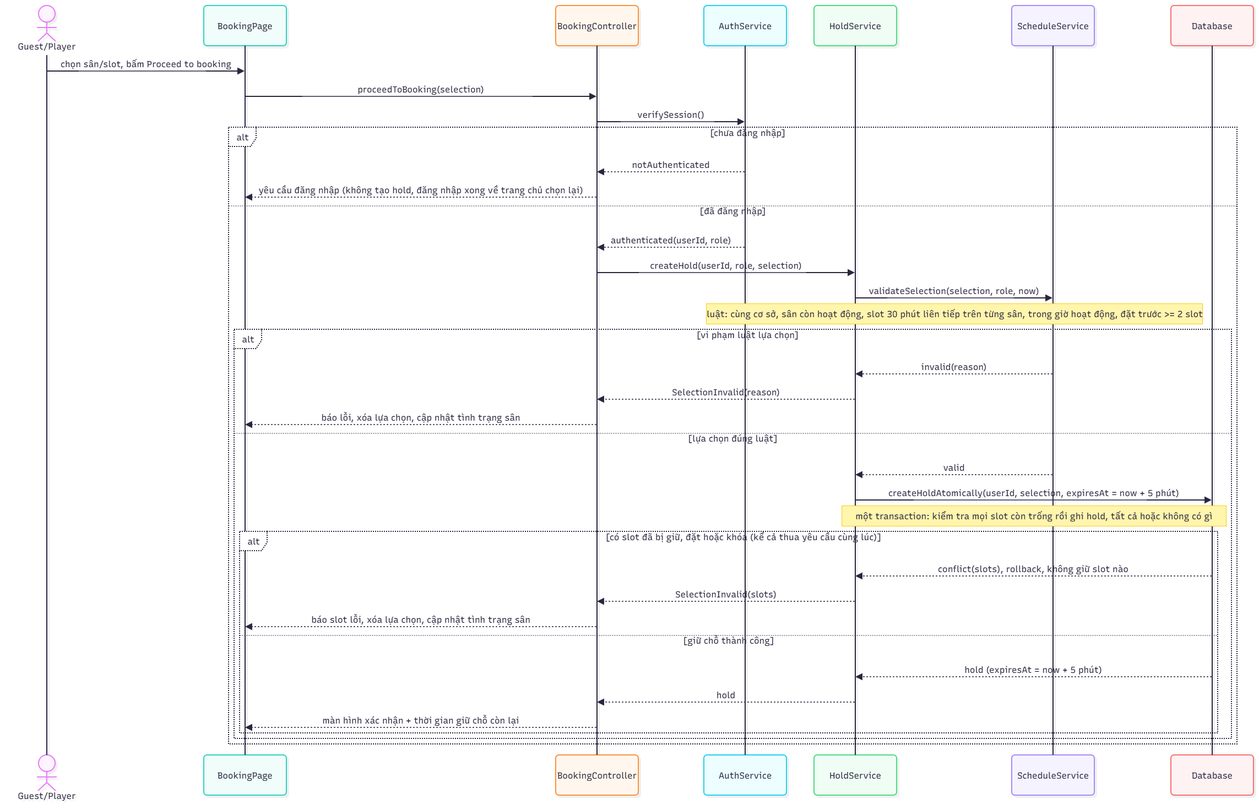
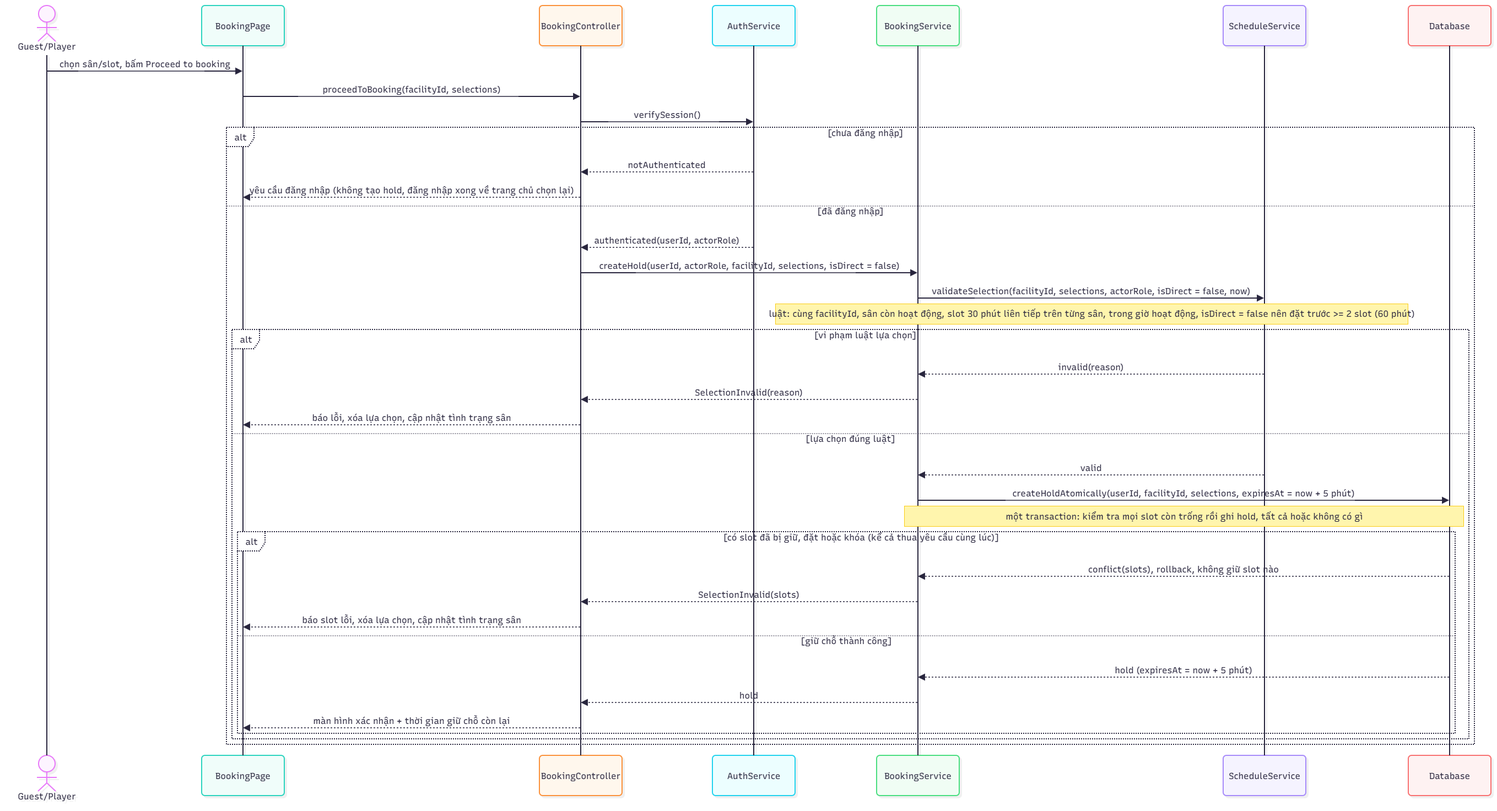
Add files via upload

diff --git a/docs/design/sequences/sequence-diagrams.md b/docs/design/sequences/sequence-diagrams.md
@@ -12,8 +12,8 @@ Năm sơ đồ tuần tự (sequence diagram) chính bao quát các use case có
 
 **Quy ước chung:**
 
-* Tên Service/operation là **tạm**, chờ đối chiếu với Class Diagram (3.3.2). Sơ đồ chỉ nêu kết quả nghiệp vụ, không cố định mã HTTP (chờ 3.1.4).
-* "Một transaction" là yêu cầu: kiểm tra và ghi nằm trong cùng một thao tác nguyên tử, tất cả hoặc không có gì. Cơ chế chống trùng (ràng buộc dữ liệu, khóa, mức cô lập) do Khôi quyết ở 3.1.2.
+* Tên lớp và chữ ký phương thức của các thao tác giữ chỗ, xác nhận, nhả chỗ và hủy lượt đặt đã được đối chiếu đồng bộ với Class Diagram (3.3.2 — PR `#31`, mục 3.2 `CLS-08`). Sơ đồ chỉ nêu kết quả nghiệp vụ, không cố định mã HTTP (đối chiếu với đặc tả API 3.1.4 — `#12`).
+* "Một transaction" là yêu cầu: kiểm tra và ghi nằm trong cùng một thao tác nguyên tử, tất cả hoặc không có gì. Cơ chế chống trùng (ràng buộc dữ liệu, khóa, mức cô lập) được thiết kế chi tiết tại 3.1.2 (`#10`).
 * Luật nghiệp vụ (cùng cơ sở, slot liên tiếp, hạn chót đặt, 24 giờ, 3 giờ) nằm ở backend. Đồng hồ là của máy chủ.
 * Kiểm tra xác thực (`verifySession`) chỉ vẽ ở `SEQ-01`; các sơ đồ sau coi như đã đăng nhập.
 
@@ -21,7 +21,7 @@ Năm sơ đồ tuần tự (sequence diagram) chính bao quát các use case có
 
 * **Truy vết:** UC-05, FR-01, FR-09, FR-10, FR-13, FR-23, FR-27, FR-32, BR-02..05, BR-08, BR-14, NFR-02, AC-02, AC-03, AC-12..18, AC-24, AC-37.
 
-Chọn slot chưa tạo hold; chỉ khi bấm `Proceed to booking` hệ thống mới kiểm tra và giữ chỗ. Khách chưa đăng nhập được chuyển đến đăng nhập trước và không tạo hold; sau khi đăng nhập, người dùng quay về trang chủ và chọn lại (FR-23). Với người đã đăng nhập, `ScheduleService` kiểm tra luật lựa chọn (cùng cơ sở, sân còn hoạt động, slot liên tiếp trên từng sân, trong giờ hoạt động, đặt trước ít nhất 2 slot tức 60 phút). Nếu đúng luật, việc **kiểm tra xung đột và ghi hold** diễn ra trong một transaction duy nhất: nếu bất kỳ slot nào đã bị giữ, đặt hoặc khóa (kể cả do yêu cầu khác thắng cùng lúc) thì không giữ slot nào.
+Chọn slot chưa tạo hold; chỉ khi bấm `Proceed to booking` hệ thống mới kiểm tra và giữ chỗ. Khách chưa đăng nhập được chuyển đến đăng nhập trước và không tạo hold; sau khi đăng nhập, người dùng quay về trang chủ và chọn lại (FR-23). Với người đã đăng nhập, `BookingController` gọi `BookingService.createHold(userId, actorRole, facilityId, selections, isDirect = false)` (đồng bộ với `CLS-08` ở PR `#31`). `ScheduleService` kiểm tra luật lựa chọn (cùng cơ sở `facilityId`, sân còn hoạt động, slot liên tiếp trên từng sân, trong giờ hoạt động, và vì `isDirect = false` nên bắt buộc đặt trước ít nhất 2 slot tức 60 phút). Nếu đúng luật, việc **kiểm tra xung đột và ghi hold** diễn ra trong một transaction duy nhất: nếu bất kỳ slot nào đã bị giữ, đặt hoặc khóa (kể cả do yêu cầu khác thắng cùng lúc) thì không giữ slot nào.
 
 
 *Hình 4.4.1 — Sơ đồ tuần tự cho UC-05 (`SEQ-01`)*
@@ -32,39 +32,39 @@ sequenceDiagram
     participant BookingPage
     participant BookingController
     participant AuthService
-    participant HoldService
+    participant BookingService
     participant ScheduleService
     participant Database
 
     P->>BookingPage: chọn sân/slot, bấm Proceed to booking
-    BookingPage->>BookingController: proceedToBooking(selection)
+    BookingPage->>BookingController: proceedToBooking(facilityId, selections)
     BookingController->>AuthService: verifySession()
 
     alt chưa đăng nhập
         AuthService-->>BookingController: notAuthenticated
         BookingController-->>BookingPage: yêu cầu đăng nhập (không tạo hold, đăng nhập xong về trang chủ chọn lại)
     else đã đăng nhập
-        AuthService-->>BookingController: authenticated(userId, role)
-        BookingController->>HoldService: createHold(userId, role, selection)
-        HoldService->>ScheduleService: validateSelection(selection, role, now)
-        Note over HoldService,ScheduleService: luật: cùng cơ sở, sân còn hoạt động, slot 30 phút liên tiếp trên từng sân, trong giờ hoạt động, đặt trước >= 2 slot
+        AuthService-->>BookingController: authenticated(userId, actorRole)
+        BookingController->>BookingService: createHold(userId, actorRole, facilityId, selections, isDirect = false)
+        BookingService->>ScheduleService: validateSelection(facilityId, selections, actorRole, isDirect = false, now)
+        Note over BookingService,ScheduleService: luật: cùng facilityId, sân còn hoạt động, slot 30 phút liên tiếp trên từng sân, trong giờ hoạt động, isDirect = false nên đặt trước >= 2 slot (60 phút)
 
         alt vi phạm luật lựa chọn
-            ScheduleService-->>HoldService: invalid(reason)
-            HoldService-->>BookingController: SelectionInvalid(reason)
+            ScheduleService-->>BookingService: invalid(reason)
+            BookingService-->>BookingController: SelectionInvalid(reason)
             BookingController-->>BookingPage: báo lỗi, xóa lựa chọn, cập nhật tình trạng sân
         else lựa chọn đúng luật
-            ScheduleService-->>HoldService: valid
-            HoldService->>Database: createHoldAtomically(userId, selection, expiresAt = now + 5 phút)
-            Note over HoldService,Database: một transaction: kiểm tra mọi slot còn trống rồi ghi hold, tất cả hoặc không có gì
+            ScheduleService-->>BookingService: valid
+            BookingService->>Database: createHoldAtomically(userId, facilityId, selections, expiresAt = now + 5 phút)
+            Note over BookingService,Database: một transaction: kiểm tra mọi slot còn trống rồi ghi hold, tất cả hoặc không có gì
 
             alt có slot đã bị giữ, đặt hoặc khóa (kể cả thua yêu cầu cùng lúc)
-                Database-->>HoldService: conflict(slots), rollback, không giữ slot nào
-                HoldService-->>BookingController: SelectionInvalid(slots)
+                Database-->>BookingService: conflict(slots), rollback, không giữ slot nào
+                BookingService-->>BookingController: SelectionInvalid(slots)
                 BookingController-->>BookingPage: báo slot lỗi, xóa lựa chọn, cập nhật tình trạng sân
             else giữ chỗ thành công
-                Database-->>HoldService: hold (expiresAt = now + 5 phút)
-                HoldService-->>BookingController: hold
+                Database-->>BookingService: hold (expiresAt = now + 5 phút)
+                BookingService-->>BookingController: hold
                 BookingController-->>BookingPage: màn hình xác nhận + thời gian giữ chỗ còn lại
             end
         end
@@ -75,7 +75,7 @@ sequenceDiagram
 
 * **Truy vết:** UC-06, FR-11, FR-12, FR-14, FR-15, FR-31, BR-01, BR-06, BR-15, NFR-02, NFR-03, AC-19, AC-35, AC-36, AC-38, AC-39.
 
-Người chơi xác nhận khi hold còn hiệu lực. Toàn bộ việc đọc hold, kiểm tra và ghi nằm trong **một transaction**: hold được khóa để đọc, kiểm tra quyền sở hữu, trạng thái `Active` và `now < expiresAt`, rồi kiểm tra lại các slot. Việc từ chối khi hết hạn dựa trên `expiresAt`, **không** chờ tác vụ nhả chạy (xem `SEQ-02B`). Nếu hợp lệ, booking được tạo ở trạng thái `Confirmed`, các slot chuyển sang `Booked` và hold đóng. Nếu xác nhận và nhả hết hạn xảy ra cùng lúc thì chỉ một bên thắng nhờ khóa trên hold.
+Người chơi xác nhận khi hold còn hiệu lực. Toàn bộ việc đọc hold, kiểm tra và ghi nằm trong **một transaction**: hold được khóa để đọc, kiểm tra quyền sở hữu, trạng thái `Active` và `now < expiresAt`, rồi kiểm tra lại các slot. Việc từ chối khi hết hạn dựa trên `expiresAt`, **không** chờ tác vụ nhả chạy (xem `SEQ-02B`): người dùng xác nhận sau khi lượt giữ hết hạn (`now >= expiresAt`) phải nhận kết quả từ chối `ConfirmRejected(HoldExpired)` và dữ liệu lượt đặt giữ nguyên (FR-11, AC-35). Nếu hợp lệ, booking được tạo ở trạng thái `Confirmed`, các slot chuyển sang `Booked` và hold đóng. Nếu xác nhận và nhả hết hạn xảy ra cùng lúc thì chỉ một bên thắng nhờ khóa trên hold.
 
 
 *Hình 4.4.2 — Sơ đồ tuần tự cho UC-06 (`SEQ-02`)*
@@ -102,7 +102,7 @@ sequenceDiagram
     alt không tồn tại, thuộc user khác, không còn Active hoặc now >= expiresAt
         BookingService->>Database: ROLLBACK
         BookingService-->>BookingController: ConfirmRejected(HoldNotFound, NotOwner hoặc HoldExpired)
-        BookingController-->>ConfirmPage: từ chối xác nhận, thông báo, cập nhật tình trạng sân
+        BookingController-->>ConfirmPage: từ chối xác nhận (dữ liệu lượt đặt giữ nguyên), thông báo, cập nhật tình trạng sân
     else hold hợp lệ
         BookingService->>ScheduleService: recheckAvailability(hold.items)
         ScheduleService->>Database: verifySlotsStillHeld(holdId)
@@ -334,7 +334,7 @@ sequenceDiagram
 
 * **Truy vết:** UC-13, FR-03, FR-10, FR-11, FR-12, FR-21, FR-22, FR-27, BR-03, BR-08, BR-10, BR-13, NFR-02..04, NFR-08, AC-07, AC-25, AC-33.
 
-Chủ sân đặt thay khách tại quầy theo đúng luồng của người chơi: chọn sân và slot, giữ chỗ, rồi xác nhận (UC-05 và UC-06). Khác biệt: hệ thống kiểm tra chủ sân có quản lý cơ sở đó, chủ sân được miễn giới hạn đặt trước 2 slot (FR-27), nhưng vẫn không được đè lên slot đang held hoặc booked (BR-13). Booking được ghi vào lịch chung với nguồn là `in-person` (không lưu thông tin khách, `ASM-09`). Hold hết hạn, nhả, tải lại và đóng tab xử lý như `SEQ-02B`.
+Chủ sân đặt thay khách tại quầy theo đúng luồng của người chơi: chọn sân và slot, giữ chỗ, rồi xác nhận (UC-05 và UC-06). Khác biệt: hệ thống kiểm tra chủ sân có quản lý cơ sở đó (`verifyFacilityOwner(userId, facilityId)`), sau đó `BookingController` gọi `BookingService.createHold(userId, FacilityOwner, facilityId, selections, isDirect = true)` (đồng bộ với `CLS-08` ở PR `#31`). Chỉ khi `actorRole = FacilityOwner` đã qua kiểm tra quyền sở hữu `facilityId` và `isDirect = true`, chủ sân mới được miễn giới hạn đặt trước 2 slot (60 phút) để đặt được khung giờ bắt đầu sau 30 phút (FR-27, AC-25), nhưng vẫn không được đè lên slot đang held, booked hoặc unavailable (BR-13). Booking được ghi vào lịch chung với nguồn là `in-person` (không lưu thông tin khách, `ASM-09`). Hold hết hạn, nhả, tải lại và đóng tab xử lý như `SEQ-02B`.
 
 
 *Hình 4.4.5 — Sơ đồ tuần tự cho UC-13 (`SEQ-05`)*
@@ -345,13 +345,13 @@ sequenceDiagram
     participant BookingPage
     participant BookingController
     participant AuthService
+    participant BookingService
     participant HoldService
     participant ScheduleService
-    participant BookingService
     participant Database
 
     FacilityOwner->>BookingPage: chọn sân/slot tại cơ sở của mình, bấm Proceed to booking
-    BookingPage->>BookingController: proceedToBooking(selection)
+    BookingPage->>BookingController: proceedToBooking(facilityId, selections)
     BookingController->>AuthService: verifyFacilityOwner(userId, facilityId)
 
     alt không quản lý cơ sở này
@@ -359,26 +359,30 @@ sequenceDiagram
         BookingController-->>BookingPage: từ chối (không tạo hold)
     else là chủ cơ sở
         AuthService-->>BookingController: authorized
-        BookingController->>HoldService: createHold(userId, FacilityOwner, selection)
-        HoldService->>ScheduleService: validateSelection(selection, FacilityOwner, now)
-        Note over HoldService,ScheduleService: owner được miễn giới hạn đặt trước 2 slot, các luật khác (kể cả sân còn hoạt động) như SEQ-01
+        BookingController->>BookingService: createHold(userId, FacilityOwner, facilityId, selections, isDirect = true)
+        BookingService->>HoldService: createHold(userId, FacilityOwner, facilityId, selections, isDirect = true)
+        HoldService->>ScheduleService: validateSelection(facilityId, selections, FacilityOwner, isDirect = true, now)
+        Note over HoldService,ScheduleService: isDirect = true tại cơ sở quản lý nên được miễn giới hạn đặt trước 2 slot (đặt trước 30 phút vẫn hợp lệ theo AC-25), các luật khác như SEQ-01
 
         alt vi phạm luật lựa chọn
             ScheduleService-->>HoldService: invalid(reason)
-            HoldService-->>BookingController: SelectionInvalid(reason)
+            HoldService-->>BookingService: SelectionInvalid(reason)
+            BookingService-->>BookingController: SelectionInvalid(reason)
             BookingController-->>BookingPage: báo lỗi, không giữ slot nào, xóa lựa chọn
         else lựa chọn đúng luật
             ScheduleService-->>HoldService: valid
-            HoldService->>Database: createHoldAtomically(userId, selection, expiresAt = now + 5 phút)
+            HoldService->>Database: createHoldAtomically(userId, facilityId, selections, expiresAt = now + 5 phút)
             Note over HoldService,Database: một transaction: kiểm tra mọi slot còn trống rồi ghi hold, không đè slot held, booked hoặc unavailable
 
             alt slot đang held, booked hoặc unavailable
                 Database-->>HoldService: conflict(slots), rollback, không giữ slot nào
-                HoldService-->>BookingController: SelectionInvalid(slots)
+                HoldService-->>BookingService: SelectionInvalid(slots)
+                BookingService-->>BookingController: SelectionInvalid(slots)
                 BookingController-->>BookingPage: báo slot lỗi, xóa lựa chọn
             else giữ chỗ thành công
                 Database-->>HoldService: hold (expiresAt = now + 5 phút)
-                HoldService-->>BookingController: hold
+                HoldService-->>BookingService: hold
+                BookingService-->>BookingController: hold
                 BookingController-->>BookingPage: màn hình xác nhận + thời gian giữ chỗ còn lại
 
                 FacilityOwner->>BookingPage: bấm Confirm booking
@@ -407,22 +411,33 @@ UC-12 (đổi giờ hoạt động hoặc xóa sân) không có sơ đồ riêng
 | Hạng mục | Nội dung |
 | ----- | ----- |
 | **Dùng chung** | Kiểm tra quyền chủ sở hữu cơ sở (cả lúc xem trước và lúc xác nhận); xem trước các booking và hold bị ảnh hưởng; chờ hold kết thúc; từ chối toàn bộ nếu một booking bị ảnh hưởng bắt đầu trong dưới 24 giờ (đúng 24 giờ vẫn được); cảnh báo; xác nhận rồi kiểm tra lại (kể cả so danh sách bị ảnh hưởng với danh sách chủ sân đã xác nhận, khác thì trả danh sách mới để xác nhận lại); hủy toàn bộ booking bị ảnh hưởng và ghi thay đổi lịch cùng thông báo trong một transaction (BR-11, FR-03, FR-29, FR-30). |
-| **Khác biệt** | Tham số `change` của `previewChange`/`applyChange` là thay đổi giờ hoạt động hoặc việc xóa sân, không phải `block(courtId, period)`. Tập bị ảnh hưởng là các booking tương lai có slot nằm ngoài giờ mới (đổi giờ) hoặc mọi booking tương lai của sân (xóa sân). Không áp quy tắc "khoảng khóa phải bắt đầu sau 24 giờ" của BR-12 vì không có khoảng khóa; chỉ áp luật 24 giờ của FR-29 cho booking bị ảnh hưởng. Bước ghi cuối cập nhật giờ hoạt động hoặc xóa sân (cách lưu do 3.1.2 quyết định, `ASM-08`) thay vì tạo `BlockedPeriod`. Màn hình xem trước nêu cả phần bị ảnh hưởng của từng booking (UC-12 bước 3). Nếu không có booking nào bị ảnh hưởng thì không hủy gì (A1), và chủ sân có thể hủy thao tác trước khi xác nhận (A2). |
+| **Khác biệt** | Tham số `change` của `previewChange`/`applyChange` là thay đổi giờ hoạt động hoặc việc xóa sân, không phải `block(courtId, period)`. Tập bị ảnh hưởng là các booking tương lai có slot nằm ngoài giờ mới (đổi giờ) hoặc mọi booking tương lai của sân (xóa sân). Không áp quy tắc "khoảng khóa phải bắt đầu sau 24 giờ" của BR-12 vì không có khoảng khóa; chỉ áp luật 24 giờ của FR-29 cho booking bị ảnh hưởng. Bước ghi cuối cập nhật giờ hoạt động hoặc xóa sân (cách lưu xóa mềm tại 3.1.2 `#10`, `ASM-08`) thay vì tạo `BlockedPeriod`. Màn hình xem trước nêu cả phần bị ảnh hưởng của từng booking (UC-12 bước 3). Nếu không có booking nào bị ảnh hưởng thì không hủy gì (A1), và chủ sân có thể hủy thao tác trước khi xác nhận (A2). |
 | **Operation** | Dùng lại `verifyFacilityOwner`, `previewChange`, `applyChange`, `cancelAffected` và `notify`; chỉ khác hai điểm vào ở `FacilityController` (xem trước/xác nhận thay đổi giờ hoạt động hoặc xóa sân) và thao tác ghi cuối. |
 
 ## 8. Các operation dùng trong sơ đồ tuần tự (`SEQ-OPS`)
 
+### 8.1 Bảng thống nhất 4 thao tác trọng tâm (Đồng bộ với Mục 3.2 `CLS-08` của PR `#31`)
+
+| Thao tác | Lớp thực hiện | Tham số | Kết quả thành công | Kết quả khi thất bại | Đối chiếu tình huống kiểm chứng |
+| ----- | ----- | ----- | ----- | ----- | ----- |
+| **Giữ chỗ (`createHold`)** | `BookingService` (gọi `ScheduleService.validateSelection` và ghi nguyên tử) | `(userId, actorRole, facilityId, selections, isDirect)` | `Hold` (`status = Active`, `expiresAt = now + 5 phút`) | `SelectionInvalid(reason)` hoặc `SelectionInvalid(slots)` (rollback toàn bộ, không giữ slot nào) | Chủ sân đã qua `verifyFacilityOwner(userId, facilityId)` gọi với `actorRole = FacilityOwner, isDirect = true` vẫn đặt tại quầy được khi khung giờ bắt đầu sau 30 phút (AC-25). |
+| **Xác nhận (`confirmBooking`)** | `BookingService` (phối hợp `HoldService.getHoldForUpdate` và `ScheduleService.recheckAvailability`) | `(holdId, userId)` | `Booking` (`status = Confirmed`, `source = online` hoặc `in-person`), đóng `Hold`, các slot sang `Booked` | `ConfirmRejected(HoldNotFound \| NotOwner \| HoldExpired \| SlotsInvalid)` (rollback, không tạo booking) | Người dùng xác nhận sau khi lượt giữ hết hạn (`now >= expiresAt`) nhận ngay kết quả từ chối `ConfirmRejected(HoldExpired)`, dữ liệu lượt đặt giữ nguyên (FR-11, AC-35). |
+| **Nhả chỗ (`releaseHold` / `releaseExpiredHolds` / `getHoldStatus`)** | `HoldService` (được gọi từ `BookingController` hoặc `ReleaseJob`) | `releaseHold(holdId, userId)`; `releaseExpiredHolds(now)`; `getHoldStatus(holdId, userId)` | `Released` (hold sang `Released`, slot về `Available`) | Khi hết hạn mà chưa nhả xong: `Releasing` (đang giải phóng $< 5$ giây) hoặc `ReleaseFailed` (nhả lỗi hoặc quá 5 giây) | Giao diện chỉ mở cho chọn lại sau khi nhận `Released` (FR-14, AC-20). |
+| **Hủy lượt đặt (`cancelBooking` / `cancelAffected`)** | `BookingService` | Người chơi: `cancelBooking(bookingId, userId)`; Chủ sân (qua `ScheduleService.applyChange`): `cancelAffected(confirmedBookings, reason)` | `CancelledByPlayer` (khi còn $\ge 3$ giờ) hoặc `CancelledByOwner` (khi còn $\ge 24$ giờ, kèm thông báo), nhả toàn bộ slot của đơn | `CancelNotAllowed(NotFoundOrNotOwner \| InvalidState \| TooLate)` (rollback, giữ nguyên trạng thái `Confirmed`) | Hủy toàn bộ đơn, đúng mốc $\ge 3$ giờ với người chơi (FR-28, AC-26, AC-27) và $\ge 24$ giờ với chủ sân (FR-29, AC-28, AC-29). |
+
+### 8.2 Danh sách đầy đủ các operation theo lớp
+
 | Lớp | Operation | Truy vết sơ đồ |
 | ----- | ----- | ----- |
-| **BookingController** | `proceedToBooking(selection)`; `confirmBooking(holdId)`; `cancelBooking(bookingId)`; `releaseHold(holdId)`; `getActiveHold()`; `getHoldStatus(holdId)` | `SEQ-01`, `SEQ-02`, `SEQ-02B`, `SEQ-03`, `SEQ-05` |
+| **BookingController** | `proceedToBooking(facilityId, selections)`; `confirmBooking(holdId)`; `cancelBooking(bookingId)`; `releaseHold(holdId)`; `getActiveHold()`; `getHoldStatus(holdId)` | `SEQ-01`, `SEQ-02`, `SEQ-02B`, `SEQ-03`, `SEQ-05` |
 | **FacilityController** | `previewBlock(courtId, period)`; `confirmBlock(courtId, period, confirmedBookings)` (và hai điểm vào tương ứng cho đổi giờ hoạt động, xóa sân) | `SEQ-04`, `SEQ-04B` |
 | **AuthService** | `verifySession()`; `verifyFacilityOwner(userId, facilityId)` | `SEQ-01`, `SEQ-04`, `SEQ-05` |
-| **HoldService** | `createHold(userId, role, selection)`; `getHoldForUpdate(holdId)`; `releaseHold(holdId, userId)`; `getActiveHold(userId)`; `getHoldStatus(holdId, userId)` (trả `Released`, `Releasing` hoặc `ReleaseFailed`); `releaseExpiredHolds(now)` | `SEQ-01`, `SEQ-02`, `SEQ-02B`, `SEQ-05` |
-| **ScheduleService** | `validateSelection(selection, role, now)`; `recheckAvailability(items)`; `previewChange(change, now)`; `applyChange(change, confirmedBookings, now)` | `SEQ-01`, `SEQ-02`, `SEQ-04`, `SEQ-04B`, `SEQ-05` |
-| **BookingService** | `confirmBooking(holdId, userId)`; `cancelBooking(bookingId, userId)`; `cancelAffected(bookings, reason)` | `SEQ-02`, `SEQ-03`, `SEQ-04`, `SEQ-05` |
+| **BookingService** | `createHold(userId, actorRole, facilityId, selections, isDirect)`; `confirmBooking(holdId, userId)`; `cancelBooking(bookingId, userId)`; `cancelAffected(confirmedBookings, reason)` | `SEQ-01`, `SEQ-02`, `SEQ-03`, `SEQ-04`, `SEQ-05` |
+| **HoldService** | `getHoldForUpdate(holdId)`; `releaseHold(holdId, userId)`; `getActiveHold(userId)`; `getHoldStatus(holdId, userId)` (trả `Released`, `Releasing` hoặc `ReleaseFailed`); `releaseExpiredHolds(now)` | `SEQ-02`, `SEQ-02B` |
+| **ScheduleService** | `validateSelection(facilityId, selections, actorRole, isDirect, now)`; `recheckAvailability(items)`; `previewChange(change, now)`; `applyChange(change, confirmedBookings, now)` | `SEQ-01`, `SEQ-02`, `SEQ-04`, `SEQ-04B`, `SEQ-05` |
 | **NotificationService** | `notify(players, reason, booking, slots)` | `SEQ-04`, `SEQ-04B` |
 | **ReleaseJob** (tác vụ nền) | gọi `releaseExpiredHolds(now)` theo chu kỳ không quá 1 giây | `SEQ-02B` |
-| **Database** (hành động ghi nguyên tử) | `createHoldAtomically(userId, selection, expiresAt)` | `SEQ-01`, `SEQ-05` |
+| **Database** (hành động ghi nguyên tử) | `createHoldAtomically(userId, facilityId, selections, expiresAt)` | `SEQ-01`, `SEQ-05` |
 
 ## 9. Thông tin gửi kèm Review (Theo Working Agreement Mục 5.3)
 
@@ -432,7 +447,9 @@ UC-12 (đổi giờ hoạt động hoặc xóa sân) không có sơ đồ riêng
 
   * \[x\] Đã bao phủ đủ UC-05, UC-06, UC-08, UC-11, UC-13 và bảng so sánh UC-12; có luồng `alt` ở mọi sơ đồ.
 
-  * \[x\] Bước kiểm tra xung đột và ghi hold (`SEQ-01`, `SEQ-05`) và bước kiểm tra, ghi khi xác nhận (`SEQ-02`) nằm trong cùng một transaction; có nhánh thua yêu cầu cùng lúc.
+  * \[x\] Đã đồng bộ lời gọi giữ chỗ sang `BookingService.createHold(userId, actorRole, facilityId, selections, isDirect)` ở `SEQ-01` (`isDirect = false`), `SEQ-05` (`isDirect = true` sau `verifyFacilityOwner`) và bảng `SEQ-OPS`, khớp với Mục 3.2 (`CLS-08`) trong PR `#31`.
+
+  * \[x\] Bước kiểm tra xung đột và ghi hold (`SEQ-01`, `SEQ-05`) và bước kiểm tra, ghi khi xác nhận (`SEQ-02`) nằm trong cùng một transaction; có nhánh thua yêu cầu cùng lúc và nhánh từ chối xác nhận khi hết hạn giữ nguyên dữ liệu lượt đặt (FR-11, AC-35).
 
   * \[x\] `SEQ-02B` thể hiện hết hạn, nhả (kể cả nhả lỗi), hủy, tải lại và đóng tab; mọi operation trong `SEQ-OPS` đều được sơ đồ dùng.
 
@@ -442,19 +459,20 @@ UC-12 (đổi giờ hoạt động hoặc xóa sân) không có sơ đồ riêng
 
   * \[x\] Đã mở từng khối Mermaid trên preview GitHub (hoặc mermaid.live) và không có lỗi cú pháp.
 
-  * \[x\] Đã xuất lại toàn bộ ảnh `sd-*.png` từ nguồn Mermaid mới.
+  * \[x\] Đã xuất lại ảnh `sd-1-uc05.png` và `sd-5-uc13.png` từ nguồn Mermaid đã cập nhật.
 
 * **Các quyết định thiết kế chính:**
 
-  1. `ScheduleService` kiểm tra luật lựa chọn, `HoldService` quản lý vòng đời giữ chỗ 5 phút, `BookingService` xác nhận/hủy đơn đặt; việc ghi hold, xác nhận và áp dụng thay đổi lịch đều nguyên tử.
+  1. Đồng bộ điểm vào tạo hold tại `BookingService.createHold(userId, actorRole, facilityId, selections, isDirect)` (khớp `CLS-08` ở PR `#31`), phối hợp `ScheduleService` kiểm tra luật lựa chọn và `HoldService` quản lý vòng đời giữ chỗ 5 phút / giải phóng; việc ghi hold, xác nhận và áp dụng thay đổi lịch đều nguyên tử (đối chiếu với `#10`).
 
   2. Mẫu 2 bước (`previewChange` -> `applyChange` kèm kiểm tra lại trong transaction) cho UC-11 và UC-12, với `change` là tham số chung. Chỉ hủy đúng danh sách đã được chủ sân xác nhận và kiểm tra lại; danh sách đổi thì trả danh sách mới để xác nhận lại.
 
   3. Từ chối xác nhận dựa vào `expiresAt` chứ không phụ thuộc tác vụ nhả; tác vụ nền chỉ nhả slot.
 
-* **Điểm còn mở cần người kiểm tra xác nhận:**
+* **Điểm còn mở và liên kết đối chiếu (theo phân công tạm thời):**
 
   * `@Lysivi2005` (phụ trách Class Diagram `#31`, API `#12`, UI `#29`):
-    * Đồng bộ tên lớp và chữ ký `createHold` (cùng bảng `SEQ-OPS` Mục 8 và vị trí của `ReleaseJob`) với sơ đồ lớp ở PR `#31` (Task 3.3.2), kể cả cách xác định ngữ cảnh đặt tại quầy.
-    * Ghi cùng một cách trả ba kết quả giải phóng giữ chỗ (`Releasing`, `ReleaseFailed`, `Released`) trong đặc tả giao tiếp API `#12` (Task 3.1.4) và cách UI ở PR `#29` (Task 3.2.1) xử lý từng kết quả (giao diện chỉ cho chọn lại sau khi nhận `Released`).
+    * Đã thống nhất chữ ký `BookingService.createHold(userId, actorRole, facilityId, selections, isDirect)` và bảng 4 thao tác tại Mục 8.1 với Mục 3.2 (`CLS-08`) của PR `#31`.
+    * Đối chiếu cách trả ba kết quả giải phóng giữ chỗ (`Releasing`, `ReleaseFailed`, `Released`) trong đặc tả giao tiếp API `#12` (Task 3.1.4) và cách UI ở PR `#29` (Task 3.2.1) xử lý từng kết quả (giao diện chỉ cho chọn lại sau khi nhận `Released`).
+  * Thiết kế dữ liệu `#10` (Task 3.1.2 — `@nmt1206` phụ trách): đã đối chiếu ranh giới giao dịch ở `createHoldAtomically`, `confirmBooking`, `cancelBooking`, `applyChange` tại mục `DB-TXN-01`..`05`.
   * `@buikhoa130406` (phụ trách thử kết nối `#7` — Task 2.3.1): kiểm chứng chu kỳ nhả không quá 1 giây; mốc giải phóng 5 giây cần bằng chứng đo riêng.
